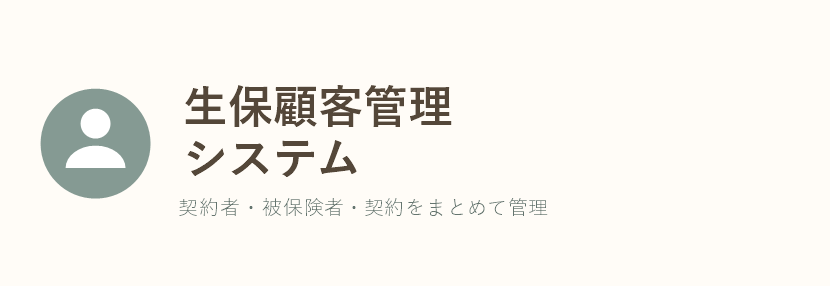
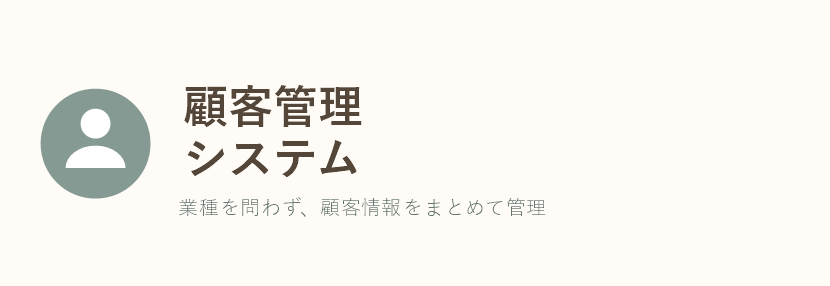
Reframe customer management work item as industry-agnostic rather than insurance-specific

Changed region(s): [[0.2108, 0.2797, 0.5422, 0.4476], [0.2108, 0.6993, 0.6627, 0.7552]]

diff --git a/index.html b/index.html
@@ -123,8 +123,8 @@
             <span class="work-mini-label">データ分析<br>レポート自動作成</span>
           </button>
           <button class="work-mini" data-target="works">
-            <img src="assets/work8.png" alt="生保顧客管理システム">
-            <span class="work-mini-label">生保顧客管理<br>システム</span>
+            <img src="assets/work8.png" alt="顧客管理システム">
+            <span class="work-mini-label">顧客管理<br>システム</span>
           </button>
           <button class="work-mini" data-target="works">
             <img src="assets/work9.png" alt="成績・支給額の自動計算">
@@ -232,12 +232,12 @@
 
         <article class="work-card">
           <div class="work-card-media">
-            <img src="assets/work8.png" alt="生保顧客管理システム">
+            <img src="assets/work8.png" alt="顧客管理システム">
             <span class="tag">顧客管理の効率化</span>
           </div>
           <div class="work-card-body">
-            <h3>生保顧客管理システム</h3>
-            <p>契約者・被保険者・契約情報をまとめて管理できるシステムを開発しました。</p>
+            <h3>顧客管理システム</h3>
+            <p>業種を問わず使える、顧客情報をまとめて管理できるシステムを開発しました。</p>
             <button class="link-more" data-target="work8">詳しく見る <span class="arrow">&rarr;</span></button>
           </div>
         </article>
@@ -864,26 +864,26 @@
     <section id="page-work8" class="page">
       <header class="topbar topbar--green topbar--detail">
         <button class="back-btn" data-target="works" aria-label="実績一覧に戻る">&#8592;</button>
-        <h1 class="topbar-title topbar-title--sm">生保顧客管理<span>- 実績詳細 -</span></h1>
+        <h1 class="topbar-title topbar-title--sm">顧客管理<span>- 実績詳細 -</span></h1>
       </header>
       <div class="section-pad">
         <div class="work-card-media detail-media">
-          <img src="assets/work8.png" alt="生保顧客管理システム">
+          <img src="assets/work8.png" alt="顧客管理システム">
           <span class="tag">顧客管理の効率化</span>
         </div>
-        <h2 class="detail-title">生保顧客管理システム</h2>
+        <h2 class="detail-title">顧客管理システム</h2>
 
         <h3 class="sub-heading">ご相談の背景</h3>
         <p class="lead-text left">会社に顧客情報をまとめるツールがなく、個人情報の取り扱いに気をつけながら、必要なときにすぐお客様の情報を調べられる仕組みが欲しいと感じていました。</p>
 
         <h3 class="sub-heading">対応内容</h3>
-        <p class="lead-text left">契約者ごとに複数の被保険者・契約（保険会社・種類・申込日・成立日・証券番号など）を登録できるシステムを構築しました。苗字・名前ですぐに検索でき、パスワードでログイン保護することで自分だけが閲覧できる環境にしています。がん保険の契約を登録すると、成立日から3ヶ月経過する3日前に自動でGoogleカレンダーへリマインド予定が作成される仕組みも搭載しました。</p>
+        <p class="lead-text left">顧客ごとに複数の関連情報（保険であれば契約内容、他業種であれば案件や商談履歴など）をまとめて登録できるシステムを構築しました。名前ですぐに検索でき、パスワードでログイン保護することで自分だけが閲覧できる環境にしています。今回は保険の顧客管理として、契約情報や更新期限の自動リマインドなどを実装しましたが、項目を調整すれば美容室・不動産・士業など、さまざまな業種の顧客管理にも応用できる仕組みです。</p>
 
         <h3 class="sub-heading center">主な特徴</h3>
         <div class="service-grid">
           <div class="service-card">
             <span class="service-icon" aria-hidden="true"><svg viewBox="0 0 24 24"><rect x="5" y="2" width="14" height="20" rx="1.5" fill="currentColor"/><rect x="7.5" y="6.5" width="9" height="1.6" rx="0.8" fill="#fff"/><rect x="7.5" y="10" width="9" height="1.6" rx="0.8" fill="#fff"/><rect x="7.5" y="13.5" width="9" height="1.6" rx="0.8" fill="#fff"/><rect x="7.5" y="17" width="6" height="1.6" rx="0.8" fill="#fff"/></svg></span>
-            <span class="service-label">顧客・契約を一元管理<br><small>契約者ごとに複数契約を登録</small></span>
+            <span class="service-label">顧客・関連情報を一元管理<br><small>顧客ごとに複数情報を登録</small></span>
           </div>
           <div class="service-card">
             <span class="service-icon" aria-hidden="true"><svg viewBox="0 0 24 24"><rect x="6" y="2" width="12" height="20" rx="2.5" fill="currentColor"/><rect x="8" y="5" width="8" height="13" rx="1" fill="#fff"/><circle cx="12" cy="19.3" r="1" fill="#fff"/></svg></span>
@@ -891,7 +891,7 @@
           </div>
           <div class="service-card">
             <span class="service-icon" aria-hidden="true"><svg viewBox="0 0 24 24"><path fill="currentColor" d="M12 2a1 1 0 0 1 1 1v1.1a6 6 0 0 1 5 5.9v4l1.6 2.4a1 1 0 0 1-.8 1.6H5.2a1 1 0 0 1-.8-1.6L6 14V10a6 6 0 0 1 5-5.9V3a1 1 0 0 1 1-1Z"/><path fill="currentColor" d="M9.5 19a2.5 2.5 0 0 0 5 0h-5Z"/></svg></span>
-            <span class="service-label">自動リマインド<br><small>がん保険の期限を自動通知</small></span>
+            <span class="service-label">自動リマインド<br><small>更新期限などを自動通知</small></span>
           </div>
           <div class="service-card">
             <span class="service-icon" aria-hidden="true"><svg viewBox="0 0 24 24"><path fill="currentColor" d="M12 2l7 3v6c0 5-3.5 8.5-7 10-3.5-1.5-7-5-7-10V5l7-3Z"/><path d="M8.5 12.5l2.5 2.5 4.5-5" stroke="#fff" stroke-width="1.8" stroke-linecap="round" stroke-linejoin="round" fill="none"/></svg></span>
